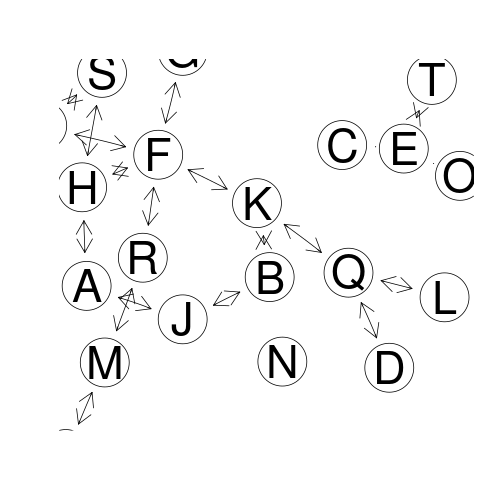
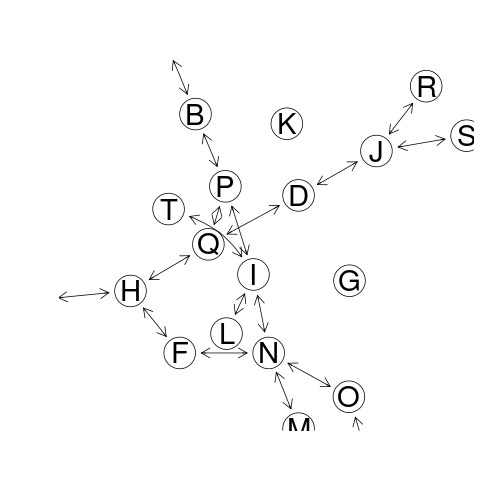
inst/

diff --git a/inst/Bioconductor/README.md b/inst/Bioconductor/README.md
@@ -123,13 +123,13 @@ estimated.pcor <- cor2pcor( cor(m.sim) )
 
 # A comparison of estimated and true values
 sum((true.pcor-estimated.pcor)^2)
-#> [1] 447.1242
+#> [1] 651.7707
 
 # A slightly better estimate ...
 estimated.pcor.2 <- ggm.estimate.pcor(m.sim)
-#> Estimating optimal shrinkage intensity lambda (correlation matrix): 0.1665
+#> Estimating optimal shrinkage intensity lambda (correlation matrix): 0.2471
 sum((true.pcor-estimated.pcor.2)^2)
-#> [1] 11.74945
+#> [1] 9.727815
 
 ## ecoli data 
 data(ecoli)
@@ -408,14 +408,13 @@ true.pcor <- ggm.simulate.pcor(20, 0.1)
 
 # convert to edge list
 test.results <- ggm.list.edges(true.pcor)[1:19,]
+nlab <- LETTERS[1:20]
 
 # graphviz
 network.make.dot(filename="test.dot", test.results, nlab, main = "A graph")
-#> Error in cat("\"", node.labels[n1[i]], "\" -> \"", node.labels[n2[i]], : object 'nlab' not found
 system("fdp -T svg -o test.svg test.dot")
 
 # Rgraphviz
-nlab <- LETTERS[1:20]
 gr <- network.make.graph( test.results, nlab)
 gr
 #> A graphNEL graph with directed edges
@@ -425,38 +424,38 @@ num.nodes(gr)
 #> [1] 20
 edge.info(gr)
 #> $weight
-#>      A~J      A~H      B~K      B~J      C~E      D~Q      E~O      E~T 
-#>  0.16340  0.39006 -0.11606 -0.80967  0.62286 -0.33519 -0.24863 -0.74159 
-#>      F~R      F~P      F~G      F~H      F~K      H~S      I~M      K~Q 
-#> -0.22652  0.27809  0.34064  0.42024  0.47572  0.24685 -0.91573 -0.23116 
-#>      L~Q      M~R      P~S 
-#> -0.80963  0.23899  0.65363 
+#>      A~B      B~P      C~H      D~J      D~Q      E~M      E~O      F~N 
+#> -0.87538  0.17362  0.54742  0.25655 -0.42332 -0.56086 -0.64612  0.42926 
+#>      F~H      H~Q      I~N      I~P      I~T      I~L      J~S      J~R 
+#> -0.49179 -0.23455 -0.00804 -0.36495  0.42278 -0.67880 -0.61040 -0.66001 
+#>      M~N      N~O      P~Q 
+#> -0.34482  0.21437 -0.50636 
 #> 
 #> $dir
-#>    A~J    A~H    B~K    B~J    C~E    D~Q    E~O    E~T    F~R    F~P    F~G 
+#>    A~B    B~P    C~H    D~J    D~Q    E~M    E~O    F~N    F~H    H~Q    I~N 
 #> "none" "none" "none" "none" "none" "none" "none" "none" "none" "none" "none" 
-#>    F~H    F~K    H~S    I~M    K~Q    L~Q    M~R    P~S 
+#>    I~P    I~T    I~L    J~S    J~R    M~N    N~O    P~Q 
 #> "none" "none" "none" "none" "none" "none" "none" "none"
 gr2 <- network.make.graph( test.results, nlab, drop.singles=TRUE)
 gr2
 #> A graphNEL graph with directed edges
-#> Number of Nodes = 19 
+#> Number of Nodes = 18 
 #> Number of Edges = 38
 num.nodes(gr2)
-#> [1] 19
+#> [1] 18
 edge.info(gr2)
 #> $weight
-#>      A~J      A~H      B~K      B~J      C~E      D~Q      E~O      E~T 
-#>  0.16340  0.39006 -0.11606 -0.80967  0.62286 -0.33519 -0.24863 -0.74159 
-#>      F~R      F~P      F~G      F~H      F~K      H~S      I~M      K~Q 
-#> -0.22652  0.27809  0.34064  0.42024  0.47572  0.24685 -0.91573 -0.23116 
-#>      L~Q      M~R      P~S 
-#> -0.80963  0.23899  0.65363 
+#>      A~B      B~P      C~H      D~J      D~Q      E~M      E~O      F~N 
+#> -0.87538  0.17362  0.54742  0.25655 -0.42332 -0.56086 -0.64612  0.42926 
+#>      F~H      H~Q      I~N      I~P      I~T      I~L      J~S      J~R 
+#> -0.49179 -0.23455 -0.00804 -0.36495  0.42278 -0.67880 -0.61040 -0.66001 
+#>      M~N      N~O      P~Q 
+#> -0.34482  0.21437 -0.50636 
 #> 
 #> $dir
-#>    A~J    A~H    B~K    B~J    C~E    D~Q    E~O    E~T    F~R    F~P    F~G 
+#>    A~B    B~P    C~H    D~J    D~Q    E~M    E~O    F~N    F~H    H~Q    I~N 
 #> "none" "none" "none" "none" "none" "none" "none" "none" "none" "none" "none" 
-#>    F~H    F~K    H~S    I~M    K~Q    L~Q    M~R    P~S 
+#>    I~P    I~T    I~L    J~S    J~R    M~N    N~O    P~Q 
 #> "none" "none" "none" "none" "none" "none" "none" "none"
 
 # plot network
@@ -472,29 +471,12 @@ library("Rgraphviz")
 #> 
 #>     from, to
 plot(gr, "fdp")
-#> Warning in arrows(tail_from[1], tail_from[2], tail_to[1], tail_to[2], col =
-#> edgeColor, : zero-length arrow is of indeterminate angle and so skipped
-#> Warning in arrows(head_from[1], head_from[2], head_to[1], head_to[2], col =
-#> edgeColor, : zero-length arrow is of indeterminate angle and so skipped
-#> Warning in arrows(tail_from[1], tail_from[2], tail_to[1], tail_to[2], col =
-#> edgeColor, : zero-length arrow is of indeterminate angle and so skipped
-#> Warning in arrows(head_from[1], head_from[2], head_to[1], head_to[2], col =
-#> edgeColor, : zero-length arrow is of indeterminate angle and so skipped
 ```
 
 ![plot of chunk GeneNet](figures/GeneNet-2.png)
 
 ```r
 plot(gr2, "fdp")
-#> Warning in arrows(tail_from[1], tail_from[2], tail_to[1], tail_to[2], col =
-#> edgeColor, : zero-length arrow is of indeterminate angle and so skipped
-
-#> Warning in arrows(tail_from[1], tail_from[2], tail_to[1], tail_to[2], col =
-#> edgeColor, : zero-length arrow is of indeterminate angle and so skipped
-#> Warning in arrows(tail_from[1], tail_from[2], tail_to[1], tail_to[2], col =
-#> edgeColor, : zero-length arrow is of indeterminate angle and so skipped
-#> Warning in arrows(head_from[1], head_from[2], head_to[1], head_to[2], col =
-#> edgeColor, : zero-length arrow is of indeterminate angle and so skipped
 ```
 
 ![plot of chunk GeneNet](figures/GeneNet-3.png)
